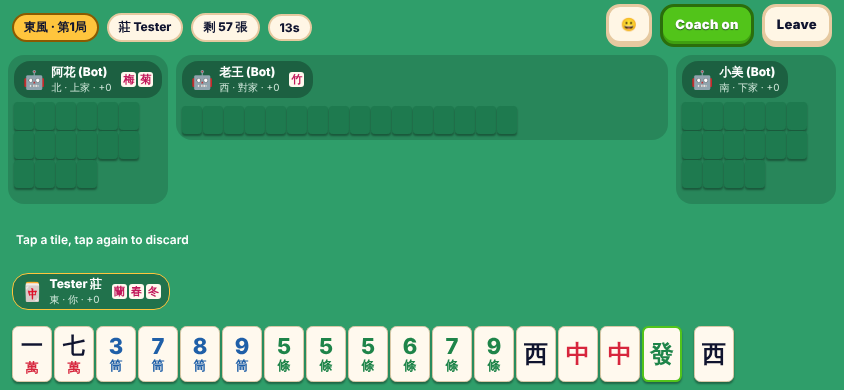
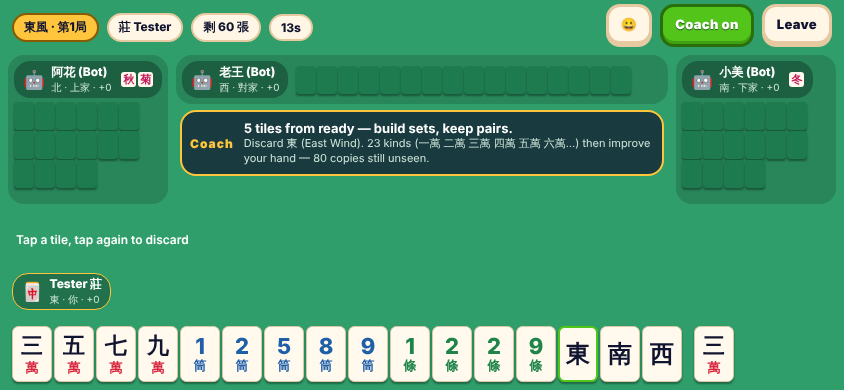
Show a compact coach strip in the centre column on short screens
Claude-Session: https://claude.ai/code/session_01UKgEJyrHUcs2SQqTb4vSxP

diff --git a/apps/mobile/src/screens/TableScreen.tsx b/apps/mobile/src/screens/TableScreen.tsx
@@ -89,6 +89,8 @@ export function TableScreen() {
   };
 
   const compact = height < 420;
+  // On short screens the side columns have no room under the opponent panel: show the coach in the centre instead.
+  const coachInCenter = height < 520;
   const sideWidth = width >= 1000 ? 200 : width >= 760 ? 160 : 130;
   // The hand spans the full width under the table, so 17 tiles + the drawn-tile gap always fit.
   const handRoom = width - 24;
@@ -199,6 +201,7 @@ export function TableScreen() {
         {/* Center column: 對家 on top, my area at bottom */}
         <View style={styles.centerCol}>
           {otherPanel(2)}
+          {coachOpen && hint && coachInCenter && <CoachPanel hint={hint} waitKinds={waitKinds} compact />}
           <View style={styles.centerInfo}>
             {view.pending && (
               <P style={{ fontSize: 12, color: colors.text }}>
@@ -217,7 +220,7 @@ export function TableScreen() {
         {/* Right: 下家 + coach */}
         <View style={[styles.side, { width: sideWidth }]}>
           {otherPanel(1)}
-          {coachOpen && hint && <CoachPanel hint={hint} waitKinds={waitKinds} />}
+          {coachOpen && hint && !coachInCenter && <CoachPanel hint={hint} waitKinds={waitKinds} />}
         </View>
       </View>
 
@@ -312,7 +315,33 @@ function ActionBar({ actions, view, act, selected, hint }: { actions: Action[]; 
   );
 }
 
-function CoachPanel({ hint, waitKinds }: { hint: Hint; waitKinds: Set<number> }) {
+function CoachPanel({ hint, waitKinds, compact }: { hint: Hint; waitKinds: Set<number>; compact?: boolean }) {
+  if (compact) {
+    // One or two lines: status + the single most useful piece of advice.
+    const line = hint.winPreview ? `${hint.winPreview.items.map((i) => `${i.nameZh} ${i.tai}`).join(' · ')} = ${hint.winPreview.tai} 台` : hint.discardReason ?? hint.claims.find((c) => c.recommended)?.reason ?? '';
+    return (
+      <View style={[styles.coach, styles.coachCompact]}>
+        <Text style={styles.coachTitle}>Coach</Text>
+        <View style={{ flex: 1 }}>
+          <Text style={styles.coachStatus} numberOfLines={1}>
+            {hint.status}
+          </Text>
+          {!!line && (
+            <Text style={styles.coachLine} numberOfLines={2}>
+              {line}
+            </Text>
+          )}
+        </View>
+        {hint.waits.length > 0 && (
+          <Row gap={2}>
+            {hint.waits.slice(0, 6).map((w) => (
+              <Tile key={w.kind} kind={w.kind} size="xs" highlight={waitKinds.has(w.kind) ? 'wait' : undefined} />
+            ))}
+          </Row>
+        )}
+      </View>
+    );
+  }
   return (
     <View style={styles.coach}>
       <Text style={styles.coachTitle}>Coach</Text>
@@ -470,6 +499,7 @@ const styles = StyleSheet.create({
   hand: { gap: 4, paddingBottom: 4 },
   handTiles: { flexDirection: 'row', alignItems: 'flex-end', gap: 2, paddingTop: 12 },
   coach: { backgroundColor: colors.panelStrong, borderRadius: radius.md, padding: 8, gap: 4, borderWidth: 2, borderColor: colors.gold, flexShrink: 1, overflow: 'hidden' },
+  coachCompact: { flexDirection: 'row', alignItems: 'center', gap: 10, marginHorizontal: 4 },
   coachTitle: { color: colors.gold, fontWeight: '900', fontSize: 12, letterSpacing: 1 },
   coachStatus: { color: colors.text, fontWeight: '700', fontSize: 13 },
   coachLine: { color: colors.textDim, fontSize: 11, lineHeight: 15 },
